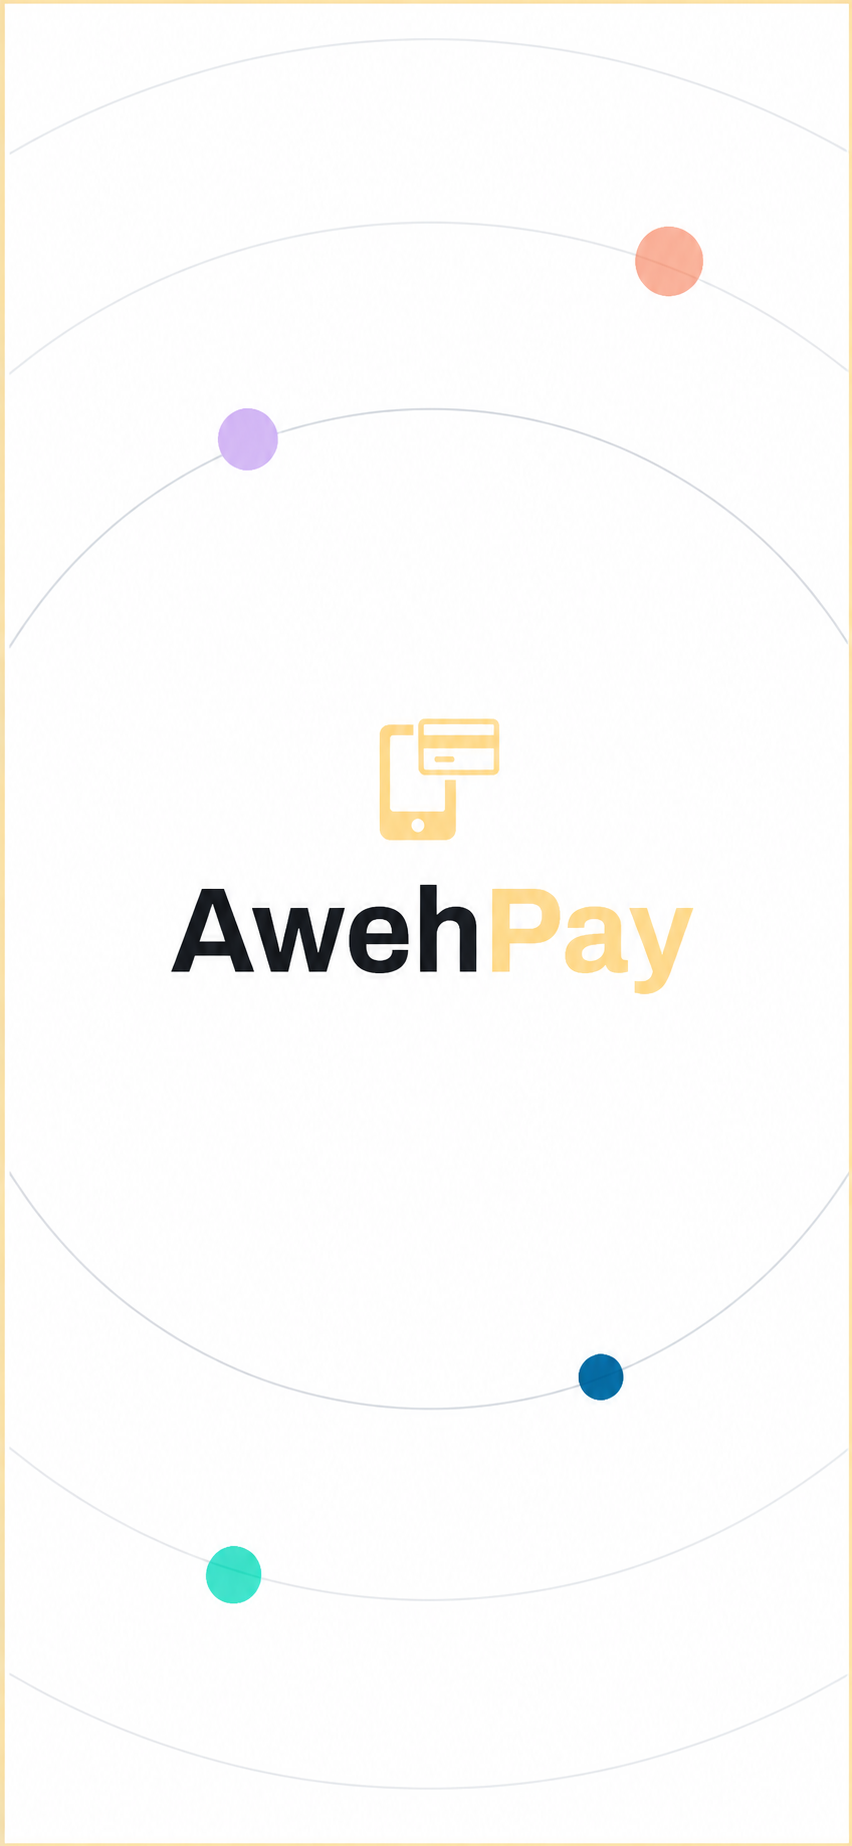
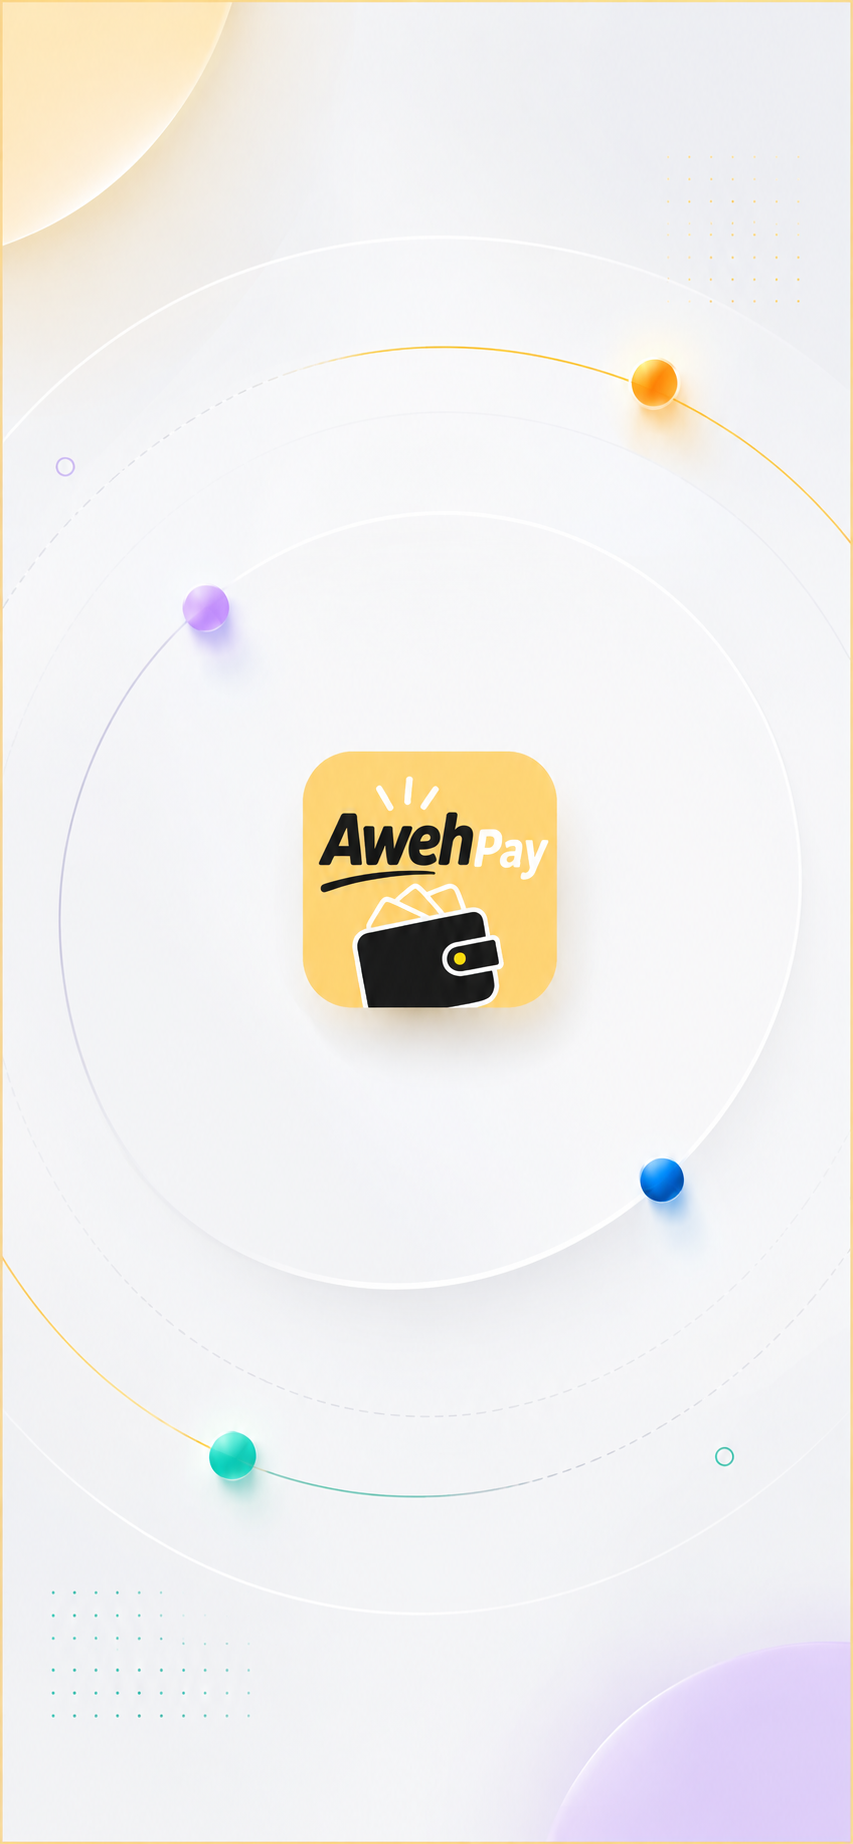
Integrate Paystack banks/subaccount APIs and UI
Add Paystack integration across backend and frontend:

- Backend: add payments/paystack_banks.js (cached GET /payments/banks) and payments/create_subaccount.js (POST /payments/subaccount) to fetch banks and create Paystack subaccounts; register both routes in backend/server.js. Includes error handling and caching for banks.
- Frontend/API: add ApiService.listBanks and ApiService.createPaystackSubaccount for requesting banks and creating subaccounts (includes sending Firebase ID token).
- Registration flow: AuthService attempts a best-effort createPaystackSubaccount after creating business and bank account (failure won't block registration).
- Models/UI: add bankCode to RegistrationDraft and update PaymentInformationScreen to load banks, show loading/error states, present a dropdown to select bank (store bankName and bankCode), validate selection, and remove the old free-text bank field.
- Misc: update LaunchScreen.png asset.

These changes let users pick a bank from Paystack's list and allow the system to create subaccounts for businesses while keeping registration resilient if Paystack is unavailable.

diff --git a/lib/src/features/Registration/views/payment_information_screen.dart b/lib/src/features/Registration/views/payment_information_screen.dart
@@ -3,6 +3,7 @@ import 'package:flutter/material.dart';
 import 'package:go_router/go_router.dart';
 
 import '../../../core/router/app_routes.dart';
+import '../../../core/services/api_service.dart';
 import '../../../core/services/auth_service.dart';
 import 'package:awe_pay/src/features/Registration/models/registration_draft.dart';
 import '../../system_admin/views/widgets/admin_primary_button.dart';
@@ -19,7 +20,7 @@ class PaymentInformationScreen extends StatefulWidget {
 
 class _PaymentInformationScreenState extends State<PaymentInformationScreen> {
   final AuthService _authService = AuthService();
-  final TextEditingController _bankNameController = TextEditingController();
+  final ApiService _apiService = ApiService();
   final TextEditingController _accountNumberController =
       TextEditingController();
   final TextEditingController _accountTypeController = TextEditingController();
@@ -28,9 +29,39 @@ class _PaymentInformationScreenState extends State<PaymentInformationScreen> {
   bool _isLoading = false;
   String? _errorMessage;
 
+  List<Map<String, dynamic>> _banks = [];
+  bool _isLoadingBanks = true;
+  String? _banksLoadError;
+  String? _selectedBankCode;
+
+  @override
+  void initState() {
+    super.initState();
+    _loadBanks();
+  }
+
+  Future<void> _loadBanks() async {
+    setState(() {
+      _isLoadingBanks = true;
+      _banksLoadError = null;
+    });
+
+    try {
+      final banks = await _apiService.listBanks();
+      setState(() {
+        _banks = banks;
+        _isLoadingBanks = false;
+      });
+    } catch (e) {
+      setState(() {
+        _banksLoadError = 'Failed to load banks';
+        _isLoadingBanks = false;
+      });
+    }
+  }
+
   @override
   void dispose() {
-    _bankNameController.dispose();
     _accountNumberController.dispose();
     _accountTypeController.dispose();
     _branchNameController.dispose();
@@ -39,13 +70,12 @@ class _PaymentInformationScreenState extends State<PaymentInformationScreen> {
   }
 
   Future<void> _handleComplete() async {
-    final bankName = _bankNameController.text.trim();
     final accountNumber = _accountNumberController.text.trim();
     final accountType = _accountTypeController.text.trim();
     final branchName = _branchNameController.text.trim();
     final branchCode = _branchCodeController.text.trim();
 
-    if (bankName.isEmpty ||
+    if (_selectedBankCode == null ||
         accountNumber.isEmpty ||
         accountType.isEmpty ||
         branchName.isEmpty ||
@@ -56,7 +86,11 @@ class _PaymentInformationScreenState extends State<PaymentInformationScreen> {
       return;
     }
 
-    registrationDraft.bankName = bankName;
+    final selectedBank =
+        _banks.firstWhere((bank) => bank['code'] == _selectedBankCode);
+
+    registrationDraft.bankName = selectedBank['name'] as String;
+    registrationDraft.bankCode = _selectedBankCode!;
     registrationDraft.accountNumber = accountNumber;
     registrationDraft.accountType = accountType;
     registrationDraft.branchName = branchName;
@@ -111,13 +145,59 @@ class _PaymentInformationScreenState extends State<PaymentInformationScreen> {
           child: Column(
             crossAxisAlignment: CrossAxisAlignment.stretch,
             children: [
-              AdminTextField(
-                label: 'Bank',
-                hintText: 'Enter your bank name',
-                controller: _bankNameController,
-                suffixIcon:
-                    const Icon(Icons.account_balance_outlined, size: 18),
+              const Text(
+                'Bank',
+                style: TextStyle(fontSize: 14, fontWeight: FontWeight.w500),
               ),
+              const SizedBox(height: 6),
+              if (_isLoadingBanks)
+                const Padding(
+                  padding: EdgeInsets.symmetric(vertical: 12),
+                  child: Center(
+                    child: SizedBox(
+                      width: 20,
+                      height: 20,
+                      child: CircularProgressIndicator(strokeWidth: 2),
+                    ),
+                  ),
+                )
+              else if (_banksLoadError != null)
+                Row(
+                  children: [
+                    Expanded(
+                      child: Text(
+                        _banksLoadError!,
+                        style: const TextStyle(color: Colors.red),
+                      ),
+                    ),
+                    TextButton(
+                      onPressed: _loadBanks,
+                      child: const Text('Retry'),
+                    ),
+                  ],
+                )
+              else
+                DropdownButtonFormField<String>(
+                  initialValue: _selectedBankCode,
+                  isExpanded: true,
+                  decoration: const InputDecoration(
+                    hintText: 'Select your bank',
+                    suffixIcon:
+                        Icon(Icons.account_balance_outlined, size: 18),
+                    border: OutlineInputBorder(),
+                  ),
+                  items: _banks
+                      .map(
+                        (bank) => DropdownMenuItem<String>(
+                          value: bank['code'] as String,
+                          child: Text(bank['name'] as String),
+                        ),
+                      )
+                      .toList(),
+                  onChanged: (value) {
+                    setState(() => _selectedBankCode = value);
+                  },
+                ),
               const SizedBox(height: 18),
               AdminTextField(
                 label: 'Account Number',

diff --git a/backend/payments/create_subaccount.js b/backend/payments/create_subaccount.js
@@ -1,0 +1,84 @@
+const express = require('express');
+const admin = require('firebase-admin');
+const axios = require('axios');
+
+const router = express.Router();
+const db = admin.firestore();
+const auth = admin.auth();
+
+// POST /payments/subaccount
+router.post('/subaccount', async (req, res) => {
+  try {
+    const idToken = req.headers.authorization?.replace('Bearer ', '');
+    if (!idToken) return res.status(401).json({ error: 'Authorization token is required' });
+
+    const { businessId, bankAccountId, businessName, bankCode, accountNumber } = req.body;
+
+    if (!businessId || !bankAccountId || !businessName || !bankCode || !accountNumber) {
+      return res.status(400).json({
+        error: 'businessId, bankAccountId, businessName, bankCode and accountNumber are required',
+      });
+    }
+
+    const decodedToken = await auth.verifyIdToken(idToken);
+
+    const businessDoc = await db.collection('businesses').doc(businessId).get();
+    if (!businessDoc.exists || businessDoc.data()?.ownerId !== decodedToken.uid) {
+      return res.status(403).json({ error: 'Not authorized for this business' });
+    }
+
+    const paystackResponse = await axios.post(
+      'https://api.paystack.co/subaccount',
+      {
+        business_name: businessName,
+        bank_code: bankCode,
+        account_number: accountNumber,
+        percentage_charge: 0,
+      },
+      {
+        headers: {
+          Authorization: `Bearer ${process.env.PAYSTACK_SECRET_KEY}`,
+          'Content-Type': 'application/json',
+        },
+      }
+    );
+
+    const subaccountData = paystackResponse.data?.data;
+    if (!subaccountData) {
+      return res.status(502).json({ error: 'Invalid response from Paystack' });
+    }
+
+    const now = admin.firestore.FieldValue.serverTimestamp();
+
+    await db.collection('businesses').doc(businessId).update({
+      paystackSubaccountCode: subaccountData.subaccount_code,
+      paystackSubaccountId: subaccountData.id,
+      updatedAt: now,
+    });
+
+    await db
+      .collection('businesses')
+      .doc(businessId)
+      .collection('bankAccounts')
+      .doc(bankAccountId)
+      .update({
+        bankCode,
+        paystackSubaccountCode: subaccountData.subaccount_code,
+        verificationStatus: 'subaccount_created',
+        updatedAt: now,
+      });
+
+    res.status(201).json({
+      success: true,
+      subaccountCode: subaccountData.subaccount_code,
+    });
+  } catch (error) {
+    console.error('create_subaccount error:', error.response?.data || error.message);
+    res.status(500).json({
+      success: false,
+      error: error.response?.data?.message || error.message,
+    });
+  }
+});
+
+module.exports = router;

diff --git a/backend/payments/paystack_banks.js b/backend/payments/paystack_banks.js
@@ -1,0 +1,43 @@
+const express = require('express');
+const axios = require('axios');
+
+const router = express.Router();
+
+let cachedBanks = null;
+let cachedAt = 0;
+const CACHE_TTL_MS = 60 * 60 * 1000; // 1 hour
+
+// GET /payments/banks
+router.get('/banks', async (req, res) => {
+  try {
+    const now = Date.now();
+    if (cachedBanks && now - cachedAt < CACHE_TTL_MS) {
+      return res.json({ success: true, banks: cachedBanks });
+    }
+
+    const paystackResponse = await axios.get('https://api.paystack.co/bank', {
+      params: { country: 'south africa', currency: 'ZAR' },
+      headers: {
+        Authorization: `Bearer ${process.env.PAYSTACK_SECRET_KEY}`,
+      },
+    });
+
+    const banks = (paystackResponse.data?.data || []).map((bank) => ({
+      name: bank.name,
+      code: bank.code,
+    }));
+
+    cachedBanks = banks;
+    cachedAt = now;
+
+    res.json({ success: true, banks });
+  } catch (error) {
+    console.error('paystack_banks error:', error.response?.data || error.message);
+    res.status(500).json({
+      success: false,
+      error: error.response?.data?.message || error.message,
+    });
+  }
+});
+
+module.exports = router;

diff --git a/lib/src/core/services/api_service.dart b/lib/src/core/services/api_service.dart
@@ -745,6 +745,43 @@ class ApiService {
     return _decodeResponse(response);
   }
 
+  Future<List<Map<String, dynamic>>> listBanks() async {
+    final response = await _client.get(_uri('/payments/banks'));
+    final body = _decodeResponse(response);
+    final banks = body['banks'] as List<dynamic>? ?? [];
+
+    return banks.map((bank) => Map<String, dynamic>.from(bank as Map)).toList();
+  }
+
+  Future<Map<String, dynamic>> createPaystackSubaccount({
+    required String businessId,
+    required String bankAccountId,
+    required String businessName,
+    required String bankCode,
+    required String accountNumber,
+  }) async {
+    final user = FirebaseAuth.instance.currentUser;
+    if (user == null) throw Exception('No Firebase user is signed in');
+
+    final idToken = await user.getIdToken();
+    final response = await _client.post(
+      _uri('/payments/subaccount'),
+      headers: {
+        'Content-Type': 'application/json',
+        'Authorization': 'Bearer $idToken',
+      },
+      body: jsonEncode({
+        'businessId': businessId,
+        'bankAccountId': bankAccountId,
+        'businessName': businessName,
+        'bankCode': bankCode,
+        'accountNumber': accountNumber,
+      }),
+    );
+
+    return _decodeResponse(response);
+  }
+
   Map<String, dynamic> _decodeResponse(http.Response response) {
     final body = response.body.isEmpty
         ? <String, dynamic>{}

diff --git a/lib/src/core/services/auth_service.dart b/lib/src/core/services/auth_service.dart
@@ -190,6 +190,19 @@ class AuthService {
     });
 
     await batch.commit();
+
+    try {
+      await _apiService.createPaystackSubaccount(
+        businessId: businessRef.id,
+        bankAccountId: bankRef.id,
+        businessName: draft.businessName.trim(),
+        bankCode: draft.bankCode.trim(),
+        accountNumber: draft.accountNumber.trim(),
+      );
+    } catch (_) {
+      // Best-effort: registration should still succeed if Paystack is
+      // unavailable. The subaccount can be created later from admin tools.
+    }
   }
 
   String _lastFour(String value) {

diff --git a/backend/server.js b/backend/server.js
@@ -29,6 +29,8 @@ const salesTrackingBackend = require('./business/Sales_tracking/sales_tracking_b
 const salesTrackingQueries = require('./business/Sales_tracking/sales_tracking_queries');
 const adminBusinessBackend = require('./admin/admin_business_backend');
 const adminAnalyticsBackend = require('./admin/analytics_backend');
+const paystackBanks = require('./payments/paystack_banks');
+const createSubaccount = require('./payments/create_subaccount');
 
 const app = express();
 
@@ -55,6 +57,8 @@ app.use('/inventory/product', reviewScannedProductsBackend);
 app.use('/inventory/product', productDetailsBackend);
 app.use('/admin/businesses', adminBusinessBackend);
 app.use('/admin/analytics', adminAnalyticsBackend);
+app.use('/payments', paystackBanks);
+app.use('/payments', createSubaccount);
 
 const db = admin.firestore();
 const auth = admin.auth();

diff --git a/lib/src/features/Registration/models/registration_draft.dart b/lib/src/features/Registration/models/registration_draft.dart
@@ -14,6 +14,7 @@ class RegistrationDraft {
   String province = '';
   String country = '';
   String bankName = '';
+  String bankCode = '';
   String accountNumber = '';
   String accountType = '';
   String branchName = '';